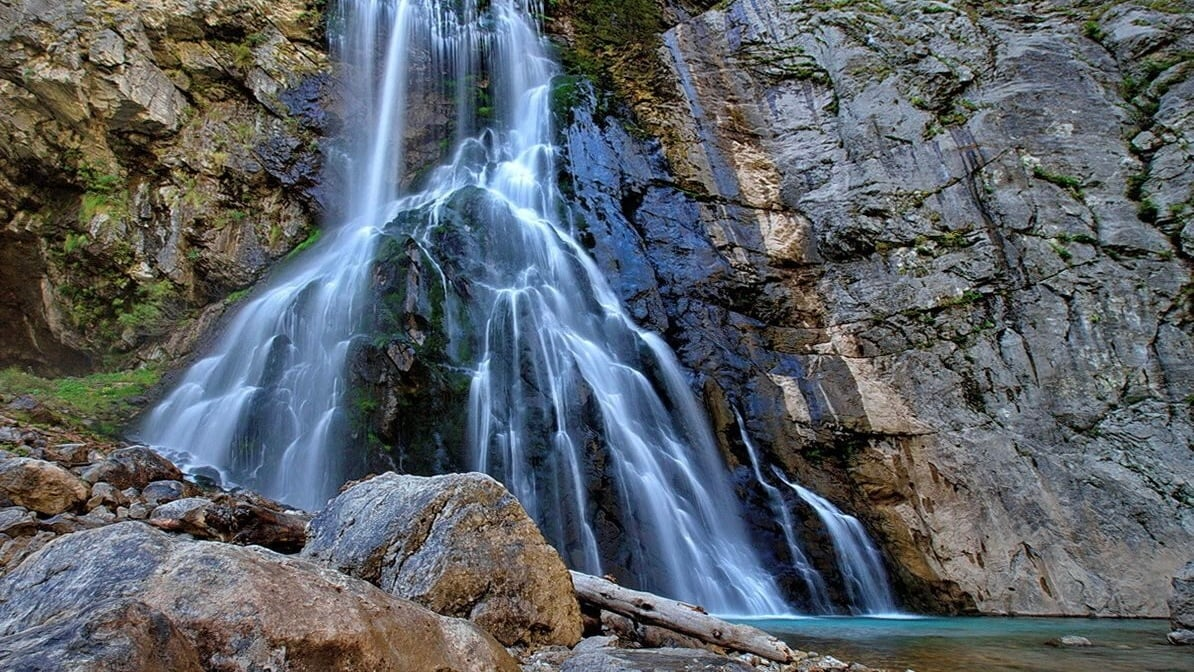
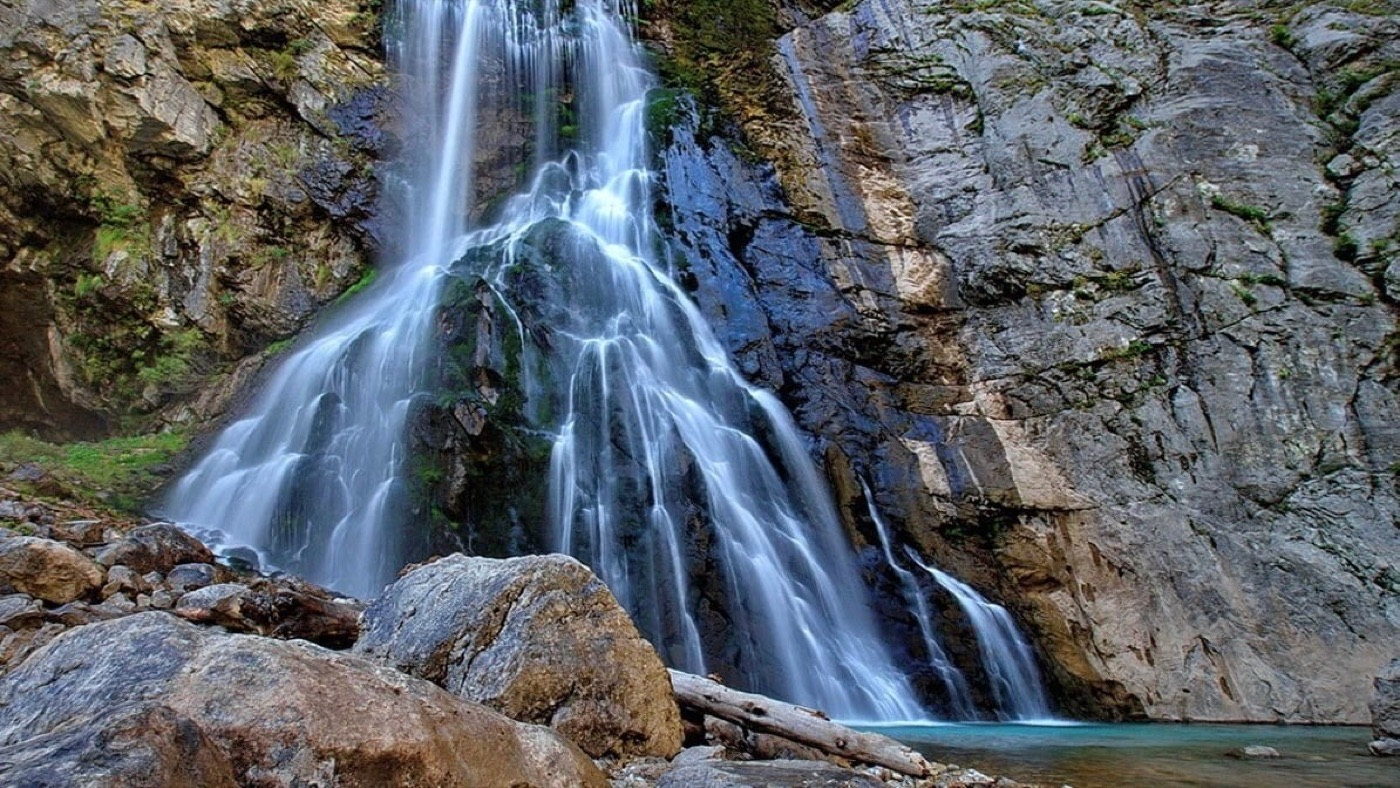
Адаптировали фото

diff --git a/pages/dzhip-gegskiy-vodopad.html b/pages/dzhip-gegskiy-vodopad.html
@@ -10,6 +10,7 @@
     content="Горная Абхазия, Гегский водопад и озеро Рица на джип-туре из Сочи и Адлера. Комфортный маршрут в УАЗ Патриот."
   />
   <link rel="stylesheet" href="../styles.css" />
+  <link rel="preload" as="image" href="../images/gega-jeep/gega-hero.jpg" fetchpriority="high" />
   <style>
     .tour-page--gega #tour-route-photos .tour-route-carousel__frame {
       position: relative;
@@ -134,28 +135,28 @@
         <div class="tour-tourists-gallery__viewport">
         <div class="tour-tourists-gallery__slider" tabindex="0" role="region" aria-roledescription="карусель" aria-label="Фото туристов с экскурсии">
           <div class="tour-tourists-gallery__card">
-            <img src="../images/gega-jeep/tourists/01-belye-skaly-abkhazia.png" alt="Белые скалы Абхазии" width="800" height="1000" loading="lazy" decoding="async">
+            <img src="../images/gega-jeep/tourists/01-belye-skaly-abkhazia.jpg" alt="Белые скалы Абхазии" width="840" height="1050" loading="lazy" decoding="async">
           </div>
           <div class="tour-tourists-gallery__card">
-            <img src="../images/gega-jeep/tourists/02-restoran-gagripsh.png" alt="Ресторан Гагрипш" width="800" height="1000" loading="lazy" decoding="async">
+            <img src="../images/gega-jeep/tourists/02-restoran-gagripsh.jpg" alt="Ресторан Гагрипш" width="840" height="1050" loading="lazy" decoding="async">
           </div>
           <div class="tour-tourists-gallery__card">
-            <img src="../images/gega-jeep/tourists/03-gagrskaya-kolonnada.png" alt="Гагрская колоннада" width="800" height="1000" loading="lazy" decoding="async">
+            <img src="../images/gega-jeep/tourists/03-gagrskaya-kolonnada.jpg" alt="Гагрская колоннада" width="840" height="1050" loading="lazy" decoding="async">
           </div>
           <div class="tour-tourists-gallery__card">
-            <img src="../images/gega-jeep/tourists/04-goluboe-ozero-abkhazia.png" alt="Голубое озеро Абхазии" width="800" height="1000" loading="lazy" decoding="async">
+            <img src="../images/gega-jeep/tourists/04-goluboe-ozero-abkhazia.jpg" alt="Голубое озеро Абхазии" width="840" height="1050" loading="lazy" decoding="async">
           </div>
           <div class="tour-tourists-gallery__card">
-            <img src="../images/gega-jeep/tourists/05-gegskij-vodopad.png" alt="Гегский водопад" width="800" height="1000" loading="lazy" decoding="async">
+            <img src="../images/gega-jeep/tourists/05-gegskij-vodopad.jpg" alt="Гегский водопад" width="840" height="1050" loading="lazy" decoding="async">
           </div>
           <div class="tour-tourists-gallery__card">
-            <img src="../images/gega-jeep/tourists/06-ozero-rica-abkhazia.png" alt="Озеро Рица Абхазии" width="800" height="1000" loading="lazy" decoding="async">
+            <img src="../images/gega-jeep/tourists/06-ozero-rica-abkhazia.jpg" alt="Озеро Рица Абхазии" width="840" height="1050" loading="lazy" decoding="async">
           </div>
           <div class="tour-tourists-gallery__card">
-            <img src="../images/gega-jeep/tourists/07-zipline-bzyb.png" alt="Зиплайн на Бзыби" width="800" height="1000" loading="lazy" decoding="async">
+            <img src="../images/gega-jeep/tourists/07-zipline-bzyb.jpg" alt="Зиплайн на Бзыби" width="840" height="1050" loading="lazy" decoding="async">
           </div>
           <div class="tour-tourists-gallery__card">
-            <img src="../images/gega-jeep/tourists/08-dzhip-tur-yupsharskij-kanon.png" alt="Джип-тур Юпшарский каньон" width="800" height="1000" loading="lazy" decoding="async">
+            <img src="../images/gega-jeep/tourists/08-dzhip-tur-yupsharskij-kanon.jpg" alt="Джип-тур Юпшарский каньон" width="840" height="1050" loading="lazy" decoding="async">
           </div>
         </div>
         <button class="tour-tourists-gallery__arrow tour-tourists-gallery__arrow--prev" type="button" aria-label="Предыдущее фото">
@@ -280,10 +281,10 @@
             <figure class="tour-route-carousel__slide">
               <div class="tour-route-carousel__img-wrap">
                 <img
-                  src="../images/gega-jeep/gallery/gagra-white-rocks-abkhazia.png"
+                  src="../images/gega-jeep/gallery/gagra-white-rocks-abkhazia.jpg"
                   alt="Белые скалы"
-                  width="900"
-                  height="600"
+                  width="960"
+                  height="540"
                   loading="lazy"
                   decoding="async"
                   class="tour-route-carousel__img"
@@ -294,10 +295,10 @@
             <figure class="tour-route-carousel__slide">
               <div class="tour-route-carousel__img-wrap">
                 <img
-                  src="../images/gega-jeep/gallery/gagripsh-restaurant-abkhazia.png"
+                  src="../images/gega-jeep/gallery/gagripsh-restaurant-abkhazia.jpg"
                   alt="Ресторан «Гагрипш»"
-                  width="900"
-                  height="600"
+                  width="960"
+                  height="540"
                   loading="lazy"
                   decoding="async"
                   class="tour-route-carousel__img"
@@ -308,10 +309,10 @@
             <figure class="tour-route-carousel__slide">
               <div class="tour-route-carousel__img-wrap">
                 <img
-                  src="../images/gega-jeep/gallery/gagra-colonnade-abkhazia.png"
+                  src="../images/gega-jeep/gallery/gagra-colonnade-abkhazia.jpg"
                   alt="Колоннада Гагры"
-                  width="900"
-                  height="600"
+                  width="960"
+                  height="540"
                   loading="lazy"
                   decoding="async"
                   class="tour-route-carousel__img"
@@ -322,10 +323,10 @@
             <figure class="tour-route-carousel__slide">
               <div class="tour-route-carousel__img-wrap">
                 <img
-                  src="../images/gega-jeep/gallery/gegsky-waterfall-abkhazia.png"
+                  src="../images/gega-jeep/gallery/gegsky-waterfall-abkhazia.jpg"
                   alt="Гегский водопад"
-                  width="900"
-                  height="600"
+                  width="960"
+                  height="540"
                   loading="lazy"
                   decoding="async"
                   class="tour-route-carousel__img"
@@ -336,10 +337,10 @@
             <figure class="tour-route-carousel__slide">
               <div class="tour-route-carousel__img-wrap">
                 <img
-                  src="../images/gega-jeep/gallery/blue-lake-abkhazia.png"
+                  src="../images/gega-jeep/gallery/blue-lake-abkhazia.jpg"
                   alt="Голубое озеро"
-                  width="900"
-                  height="600"
+                  width="960"
+                  height="540"
                   loading="lazy"
                   decoding="async"
                   class="tour-route-carousel__img"
@@ -350,10 +351,10 @@
             <figure class="tour-route-carousel__slide">
               <div class="tour-route-carousel__img-wrap">
                 <img
-                  src="../images/gega-jeep/gallery/yupshar-canyon-abkhazia.png"
+                  src="../images/gega-jeep/gallery/yupshar-canyon-abkhazia.jpg"
                   alt="Юпшарский каньон"
-                  width="900"
-                  height="600"
+                  width="960"
+                  height="540"
                   loading="lazy"
                   decoding="async"
                   class="tour-route-carousel__img"
@@ -364,10 +365,10 @@
             <figure class="tour-route-carousel__slide">
               <div class="tour-route-carousel__img-wrap">
                 <img
-                  src="../images/gega-jeep/gallery/yupshara-river-abkhazia.png"
+                  src="../images/gega-jeep/gallery/yupshara-river-abkhazia.jpg"
                   alt="Река Юпшара"
-                  width="900"
-                  height="600"
+                  width="960"
+                  height="540"
                   loading="lazy"
                   decoding="async"
                   class="tour-route-carousel__img"
@@ -378,10 +379,10 @@
             <figure class="tour-route-carousel__slide">
               <div class="tour-route-carousel__img-wrap">
                 <img
-                  src="../images/gega-jeep/gallery/ritsa-lake-abkhazia.png"
+                  src="../images/gega-jeep/gallery/ritsa-lake-abkhazia.jpg"
                   alt="Озеро Рица"
-                  width="900"
-                  height="600"
+                  width="960"
+                  height="540"
                   loading="lazy"
                   decoding="async"
                   class="tour-route-carousel__img"
@@ -425,7 +426,7 @@
               <div class="tour-logistics-sprinter-carousel__slide">
                 <div class="tour-logistics-sprinter-card__img-wrap">
                   <img
-                    src="../images/transport/uaz-patriot-abkhazia-jeep-tour.png"
+                    src="../images/transport/uaz-patriot-abkhazia-jeep-tour.jpg"
                     alt="УАЗ Патриот для джип-тура по Абхазии"
                     width="1672"
                     height="941"
@@ -438,7 +439,7 @@
               <div class="tour-logistics-sprinter-carousel__slide">
                 <div class="tour-logistics-sprinter-card__img-wrap">
                   <img
-                    src="../images/transport/jeep-tour-uaz-waterfall.png"
+                    src="../images/transport/jeep-tour-uaz-waterfall.jpg"
                     alt="Джип-тур на УАЗ Патриот у водопада в Абхазии"
                     width="1672"
                     height="941"
@@ -1141,6 +1142,7 @@
       syncFromScroll();
     })();
   </script>
+  <script src="../tour-page-images-prefetch.js"></script>
   <script src="../tour-tourists-gallery.js"></script>
   <script src="../tour-logistics-sprinter-carousel.js"></script>
 </body>

diff --git a/pages/kyndyg-chernigovka.html b/pages/kyndyg-chernigovka.html
@@ -7,6 +7,7 @@
   <title>Термальные источники Кындыг — экскурсия из Сочи и Адлера</title>
   <meta name="description" content="Сухум, Новый Афон и купание в горячих источниках. Выезды по чётным числам. Микроавтобус Mercedes до 18 человек." />
   <link rel="stylesheet" href="../styles.css" />
+  <link rel="preload" as="image" href="../images/kyndyg/kyndyg-hero.jpg" fetchpriority="high" />
   <style>
     .tour-page--kyndyg #tour-route-photos .tour-route-carousel__frame {
       position: relative;
@@ -134,28 +135,28 @@
         <div class="tour-tourists-gallery__viewport">
         <div class="tour-tourists-gallery__slider" tabindex="0" role="region" aria-roledescription="карусель" aria-label="Фото туристов с экскурсии">
           <div class="tour-tourists-gallery__card">
-            <img src="../images/kyndyg/tourists/01-termalnyj-istochnik.png" alt="Термальные источники Кындыг" width="800" height="1000" loading="lazy" decoding="async">
+            <img src="../images/kyndyg/tourists/01-termalnyj-istochnik.jpg" alt="Термальные источники Кындыг" width="840" height="1050" loading="lazy" decoding="async">
           </div>
           <div class="tour-tourists-gallery__card">
-            <img src="../images/kyndyg/tourists/02-gagra-kolonnada.png" alt="Гагра колоннада" width="800" height="1000" loading="lazy" decoding="async">
+            <img src="../images/kyndyg/tourists/02-gagra-kolonnada.jpg" alt="Гагра колоннада" width="840" height="1050" loading="lazy" decoding="async">
           </div>
           <div class="tour-tourists-gallery__card">
-            <img src="../images/kyndyg/tourists/03-primorskij-park.png" alt="Приморский парк" width="800" height="1000" loading="lazy" decoding="async">
+            <img src="../images/kyndyg/tourists/03-primorskij-park.jpg" alt="Приморский парк" width="840" height="1050" loading="lazy" decoding="async">
           </div>
           <div class="tour-tourists-gallery__card">
-            <img src="../images/kyndyg/tourists/04-suhum-progulka.png" alt="Сухум" width="800" height="1000" loading="lazy" decoding="async">
+            <img src="../images/kyndyg/tourists/04-suhum-progulka.jpg" alt="Сухум" width="840" height="1050" loading="lazy" decoding="async">
           </div>
           <div class="tour-tourists-gallery__card">
-            <img src="../images/kyndyg/tourists/05-fontan-suhum.png" alt="Фонтан в Сухуме" width="800" height="1000" loading="lazy" decoding="async">
+            <img src="../images/kyndyg/tourists/05-fontan-suhum.jpg" alt="Фонтан в Сухуме" width="840" height="1050" loading="lazy" decoding="async">
           </div>
           <div class="tour-tourists-gallery__card">
-            <img src="../images/kyndyg/tourists/06-termalnye-bassejny.png" alt="Термальные бассейны" width="800" height="1000" loading="lazy" decoding="async">
+            <img src="../images/kyndyg/tourists/06-termalnye-bassejny.jpg" alt="Термальные бассейны" width="840" height="1050" loading="lazy" decoding="async">
           </div>
           <div class="tour-tourists-gallery__card">
-            <img src="../images/kyndyg/tourists/07-gidromassazh.png" alt="Гидромассаж" width="800" height="1000" loading="lazy" decoding="async">
+            <img src="../images/kyndyg/tourists/07-gidromassazh.jpg" alt="Гидромассаж" width="840" height="1050" loading="lazy" decoding="async">
           </div>
           <div class="tour-tourists-gallery__card">
-            <img src="../images/kyndyg/tourists/08-holodnaya-bochka.png" alt="Холодная бочка" width="800" height="1000" loading="lazy" decoding="async">
+            <img src="../images/kyndyg/tourists/08-holodnaya-bochka.jpg" alt="Холодная бочка" width="840" height="1050" loading="lazy" decoding="async">
           </div>
         </div>
         <button class="tour-tourists-gallery__arrow tour-tourists-gallery__arrow--prev" type="button" aria-label="Предыдущее фото">
@@ -295,10 +296,10 @@
             <figure class="tour-route-carousel__slide">
               <div class="tour-route-carousel__img-wrap">
                 <img
-                  src="../images/kyndyg/gallery/gagra-colonnade-abkhazia.png"
+                  src="../images/kyndyg/gallery/gagra-colonnade-abkhazia.jpg"
                   alt="Гагра"
-                  width="900"
-                  height="600"
+                  width="960"
+                  height="540"
                   loading="lazy"
                   decoding="async"
                   class="tour-route-carousel__img"
@@ -309,10 +310,10 @@
             <figure class="tour-route-carousel__slide">
               <div class="tour-route-carousel__img-wrap">
                 <img
-                  src="../images/kyndyg/gallery/new-afon-swans-park-abkhazia.png"
+                  src="../images/kyndyg/gallery/new-afon-swans-park-abkhazia.jpg"
                   alt="Новый Афон"
-                  width="900"
-                  height="600"
+                  width="960"
+                  height="540"
                   loading="lazy"
                   decoding="async"
                   class="tour-route-carousel__img"
@@ -323,10 +324,10 @@
             <figure class="tour-route-carousel__slide">
               <div class="tour-route-carousel__img-wrap">
                 <img
-                  src="../images/kyndyg/gallery/new-afon-colonnade-abkhazia.png"
+                  src="../images/kyndyg/gallery/new-afon-colonnade-abkhazia.jpg"
                   alt="Новый Афон"
-                  width="900"
-                  height="600"
+                  width="960"
+                  height="540"
                   loading="lazy"
                   decoding="async"
                   class="tour-route-carousel__img"
@@ -337,10 +338,10 @@
             <figure class="tour-route-carousel__slide">
               <div class="tour-route-carousel__img-wrap">
                 <img
-                  src="../images/kyndyg/gallery/sukhum-griffin-fountain-abkhazia.png"
+                  src="../images/kyndyg/gallery/sukhum-griffin-fountain-abkhazia.jpg"
                   alt="Сухум"
-                  width="900"
-                  height="600"
+                  width="960"
+                  height="540"
                   loading="lazy"
                   decoding="async"
                   class="tour-route-carousel__img"
@@ -351,10 +352,10 @@
             <figure class="tour-route-carousel__slide">
               <div class="tour-route-carousel__img-wrap">
                 <img
-                  src="../images/kyndyg/gallery/kyndyg-thermal-pools-abkhazia.png"
+                  src="../images/kyndyg/gallery/kyndyg-thermal-pools-abkhazia.jpg"
                   alt="Термальный комплекс Кындыг"
-                  width="900"
-                  height="600"
+                  width="960"
+                  height="540"
                   loading="lazy"
                   decoding="async"
                   class="tour-route-carousel__img"
@@ -365,10 +366,10 @@
             <figure class="tour-route-carousel__slide">
               <div class="tour-route-carousel__img-wrap">
                 <img
-                  src="../images/kyndyg/gallery/kyndyg-hydromassage-abkhazia.png"
+                  src="../images/kyndyg/gallery/kyndyg-hydromassage-abkhazia.jpg"
                   alt="Термальный комплекс Кындыг"
-                  width="900"
-                  height="600"
+                  width="960"
+                  height="540"
                   loading="lazy"
                   decoding="async"
                   class="tour-route-carousel__img"
@@ -379,10 +380,10 @@
             <figure class="tour-route-carousel__slide">
               <div class="tour-route-carousel__img-wrap">
                 <img
-                  src="../images/kyndyg/gallery/kyndyg-hot-mineral-spring-abkhazia.png"
+                  src="../images/kyndyg/gallery/kyndyg-hot-mineral-spring-abkhazia.jpg"
                   alt="Красивые места по дороге"
-                  width="900"
-                  height="600"
+                  width="960"
+                  height="540"
                   loading="lazy"
                   decoding="async"
                   class="tour-route-carousel__img"
@@ -427,7 +428,7 @@
               <div class="tour-logistics-sprinter-carousel__slide">
                 <div class="tour-logistics-sprinter-card__img-wrap">
                   <img
-                    src="../images/transport/mercedes-sprinter.png"
+                    src="../images/transport/mercedes-sprinter.jpg"
                     alt="Mercedes Sprinter для экскурсии по Абхазии"
                     width="960"
                     height="540"
@@ -1188,6 +1189,7 @@
       }, { passive: true });
     })();
   </script>
+  <script src="../tour-page-images-prefetch.js"></script>
   <script src="../tour-tourists-gallery.js"></script>
   <script src="../tour-logistics-sprinter-carousel.js"></script>
 </body>